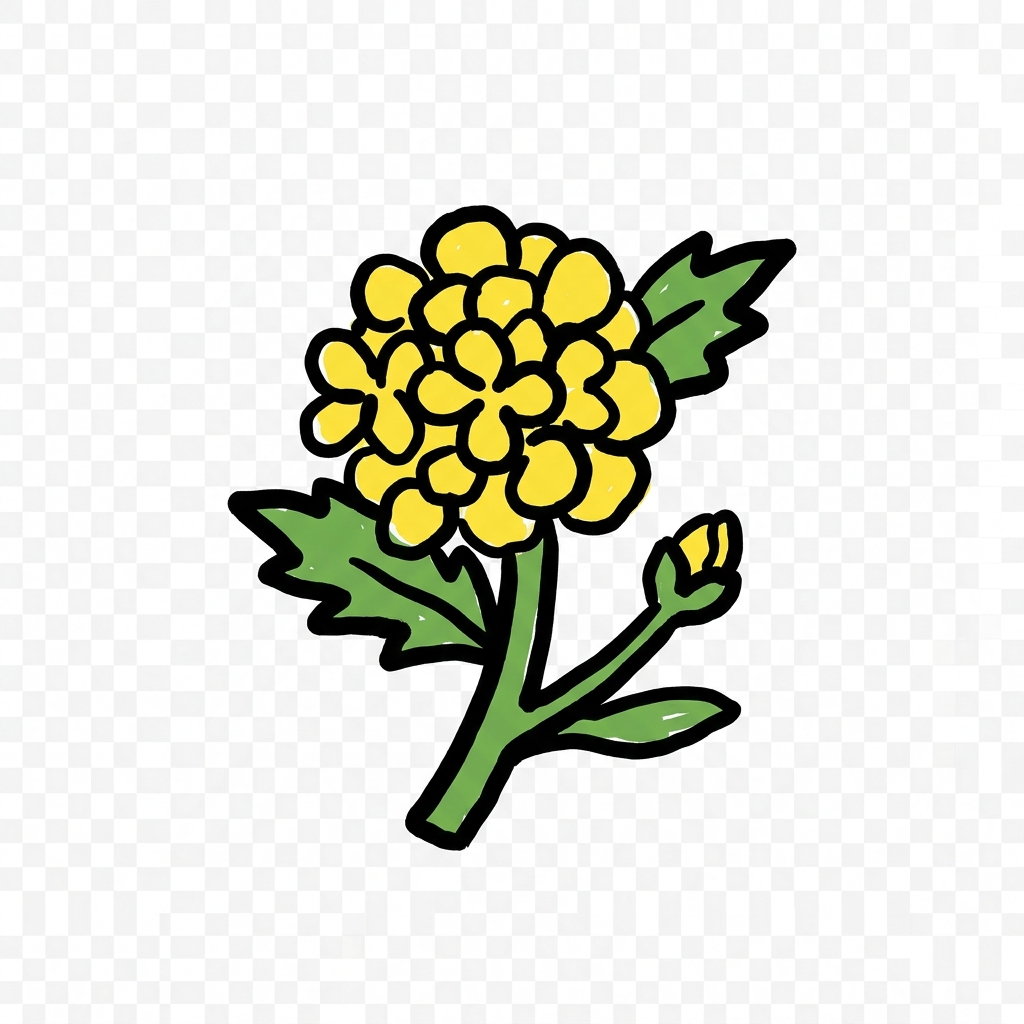
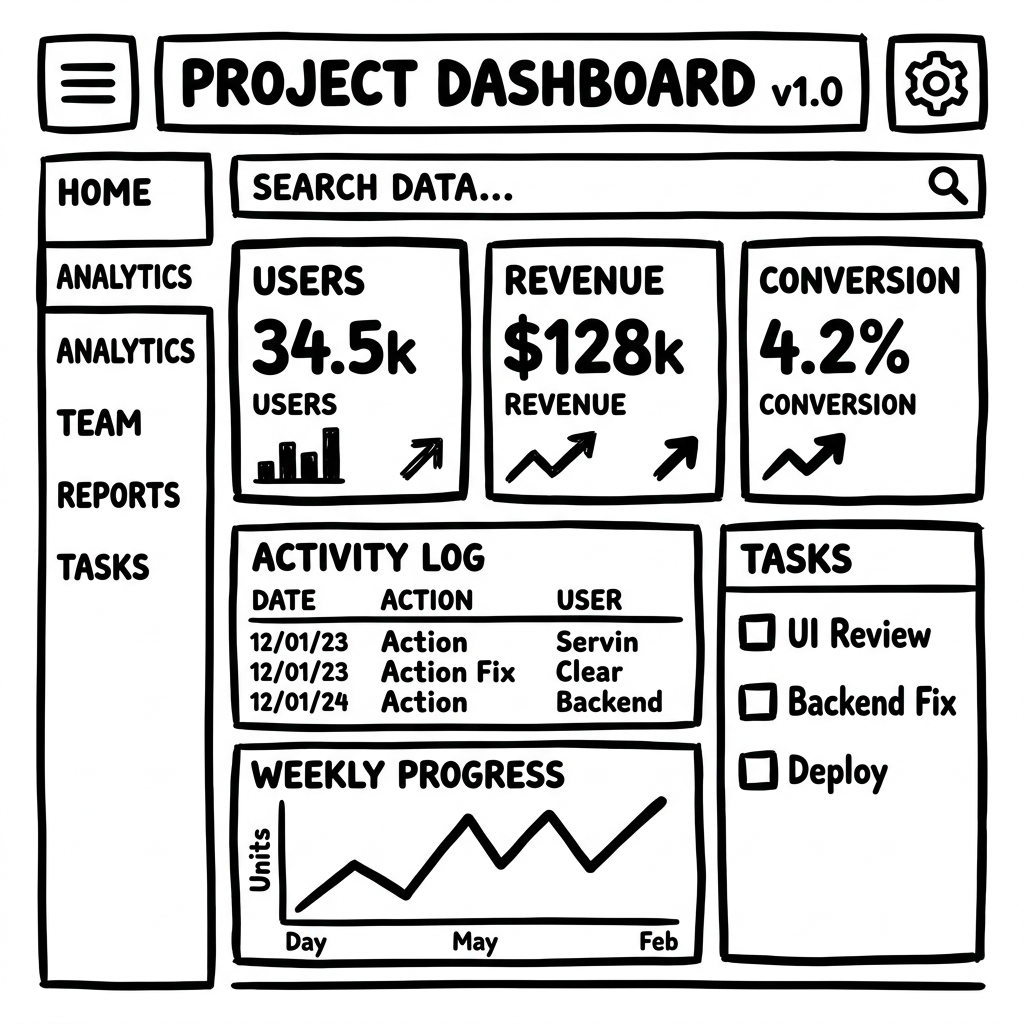
style: generate more professional doodles and apply mix-blend-multiply for transparent bg

diff --git a/project/src/pages/Landing.tsx b/project/src/pages/Landing.tsx
@@ -695,8 +695,8 @@ export const Landing = () => {
                 style={{ opacity: introPhase === 'reveal' || introPhase === 'finished' ? 1 : 0 }}
             >
                 {/* Nanobana Doodles */}
-                <img src="/doodle_sticky.png" className="absolute top-32 left-12 w-28 h-28 opacity-70 animate-float z-0 pointer-events-none hidden md:block" alt="sticky" />
-                <img src="/doodle_pen.png" className="absolute top-[60vh] right-20 w-36 h-36 opacity-70 animate-wobble z-0 pointer-events-none hidden md:block" alt="pen" />
+                <img src="/doodle_sticky.png" className="absolute top-32 left-12 w-56 h-56 opacity-90 animate-float z-0 pointer-events-none hidden md:block mix-blend-multiply" alt="sticky" />
+                <img src="/doodle_pen.png" className="absolute top-[60vh] right-20 w-64 h-64 opacity-90 animate-wobble z-0 pointer-events-none hidden md:block mix-blend-multiply" alt="pen" />
 
                 {/* Background Ruled Lines */}
                 <div className="ruled h" style={{ top: '25%' }} />

diff --git a/project/src/pages/Dashboard.tsx b/project/src/pages/Dashboard.tsx
@@ -314,8 +314,8 @@ export const Dashboard = () => {
   return (
     <div className="min-h-screen bg-[#F2EFE9] transition-colors duration-300 relative overflow-hidden">
       {/* Nanobana Doodles */}
-      <img src="/doodle_sticky.png" className="absolute top-10 left-10 w-24 h-24 opacity-80 animate-float z-0 pointer-events-none" alt="sticky" />
-      <img src="/doodle_pen.png" className="absolute bottom-20 right-10 w-32 h-32 opacity-80 animate-wobble z-0 pointer-events-none" alt="pen" />
+      <img src="/doodle_sticky.png" className="absolute top-10 left-10 w-48 h-48 opacity-90 animate-float z-0 pointer-events-none mix-blend-multiply" alt="sticky" />
+      <img src="/doodle_pen.png" className="absolute bottom-20 right-10 w-56 h-56 opacity-90 animate-wobble z-0 pointer-events-none mix-blend-multiply" alt="pen" />
       
       <Navbar />
       <main className="max-w-[1600px] mx-auto px-6 py-10 relative z-10">
